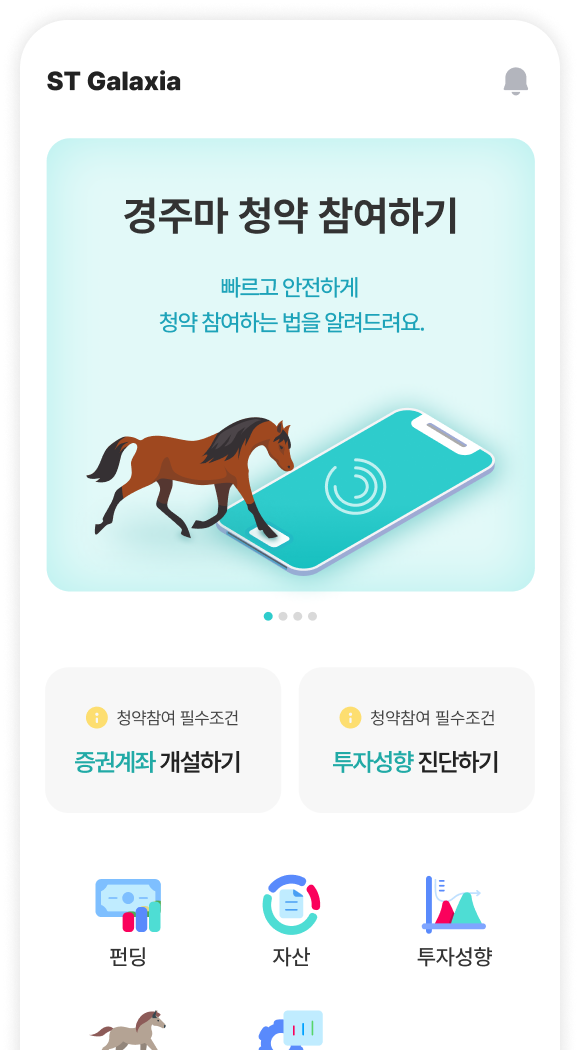
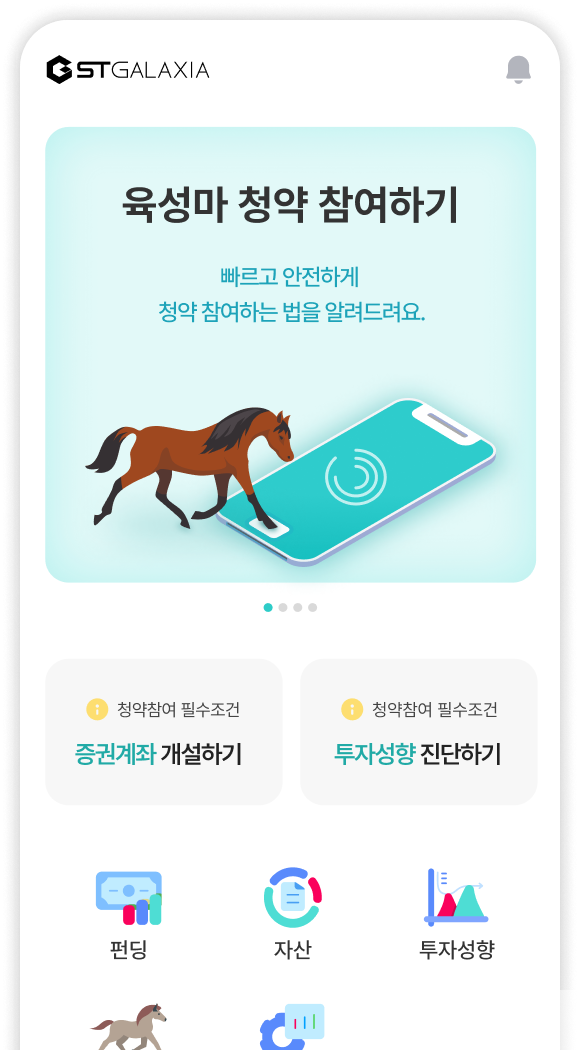
edit image

diff --git a/css/service_guide.css b/css/service_guide.css
@@ -17,7 +17,7 @@
 [data-swiper-slide-index="0"] .img_wrap img {width:72%; max-width:72%; margin:0 auto;}
 
 [data-swiper-slide-index="1"] .img_wrap img {width:67.733333%; max-width:67.733333%; position:absolute; bottom:0;}
-[data-swiper-slide-index="1"] .img_wrap img:nth-of-type(1) {left:0;}
+[data-swiper-slide-index="1"] .img_wrap img:nth-of-type(1) {left:0; z-index:1;}
 [data-swiper-slide-index="1"] .img_wrap img:nth-of-type(2) {right:0;}
 
 [data-swiper-slide-index="2"] .img_wrap img {width:67.733333%; max-width:67.733333%; position:absolute; bottom:0;}

diff --git a/html/app-goods-001.html b/html/app-goods-001.html
@@ -34,7 +34,7 @@
                                 <!-- Edit 2024-02-14 -->
                                 <button><em>
                                     <span><img src="../images/sub/icon_subscription_horse.png" /></span>
-                                    경주마
+                                    육성마
                                 </em></button>
                                 <!-- //Edit 2024-02-14 -->
                             </li>

diff --git a/html/app-main-001.html b/html/app-main-001.html
@@ -104,7 +104,7 @@
                     <li>
                         <a href="#none" class="horse">
                             <span><img src="../images/main/icon_horse.png" style="height:55px;" /></span>
-                            <strong>경주마</strong>
+                            <strong>육성마</strong>
                         </a>
                     </li>
                     <li>

diff --git a/css/swiper.css b/css/swiper.css
@@ -1,5 +1,5 @@
 :root {
-  --swiper-theme-color: #007aff;
+  --swiper-theme-color: #2eccc8;
 }
 .swiper-container {
   margin-left: auto;
